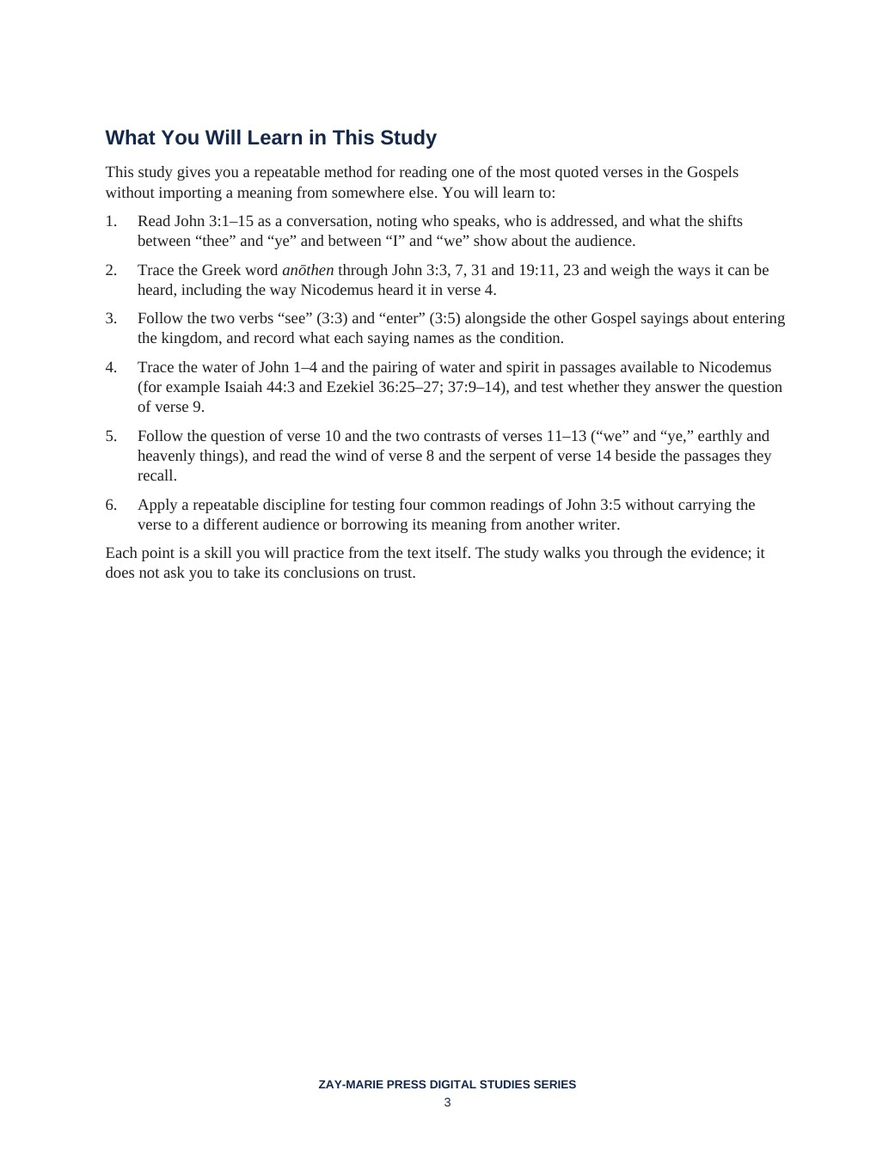
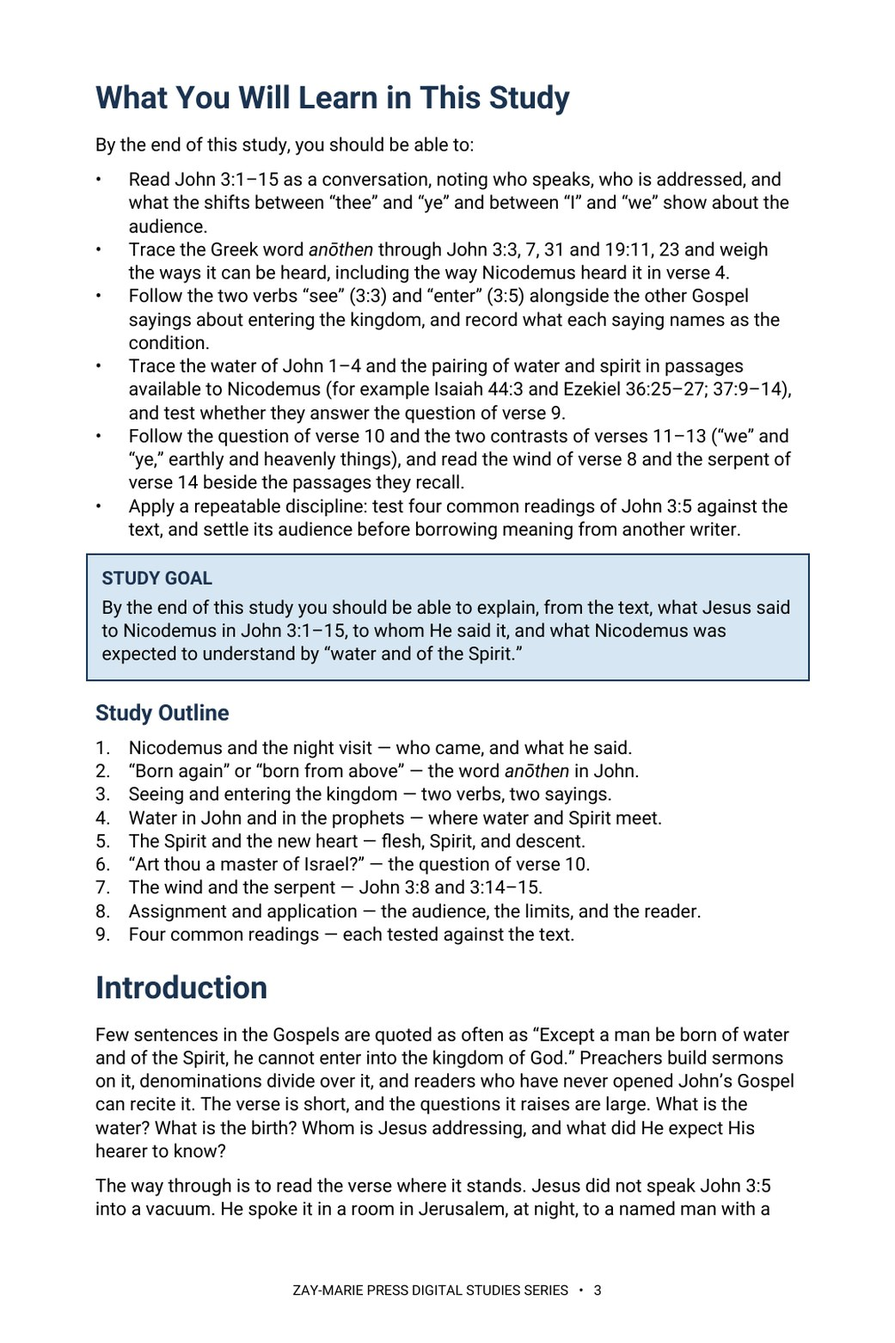
Study 70: rebuilt in Roboto at 10 pt, 17 pages; previews and trackers updated
Claude-Session: https://claude.ai/code/session_01HC7bs9KYP2scp4hCL6DkTp

Changed region(s): [[0.0922, 0.0624, 0.9222, 0.9666]]

diff --git a/study-70-born-of-water-and-of-the-spirit.html b/study-70-born-of-water-and-of-the-spirit.html
@@ -1,13 +1,13 @@
 <!doctype html>
-<html lang="en"><head><meta charset="utf-8"><meta name="viewport" content="width=device-width,initial-scale=1"><title>Born of Water and of the Spirit | Zay-Marie Press</title><meta name="description" content="Study 70 reads John 3:1–15 in its setting, tracing what Jesus said to Nicodemus about being born of water and of the Spirit by its words, its audience, and its Old Testament roots. Preview the 16-page digital study."><link rel="stylesheet" href="styles.css?v=20260921-4"><link rel="icon" type="image/png" href="assets/zay-marie-press-favicon.png"><style>
+<html lang="en"><head><meta charset="utf-8"><meta name="viewport" content="width=device-width,initial-scale=1"><title>Born of Water and of the Spirit | Zay-Marie Press</title><meta name="description" content="Study 70 reads John 3:1–15 in its setting, tracing what Jesus said to Nicodemus about being born of water and of the Spirit by its words, its audience, and its Old Testament roots. Preview the 17-page digital study."><link rel="stylesheet" href="styles.css?v=20260921-4"><link rel="icon" type="image/png" href="assets/zay-marie-press-favicon.png"><style>
 .study-detail-page{background:#fff;color:#252525}.detail-hero{background:linear-gradient(135deg,#f8f5ec,#e3ece2);padding:58px 0}.detail-hero-grid{display:grid;grid-template-columns:minmax(250px,.72fr) minmax(0,1.28fr);gap:58px;align-items:center}.detail-cover{max-width:390px;margin:auto}.detail-cover img{display:block;width:100%;height:auto;box-shadow:0 14px 36px rgba(8,45,69,.18)}.detail-hero h1{font-size:clamp(2.7rem,5vw,4.7rem);line-height:1.02;margin:8px 0 10px;color:#143823}.detail-subtitle{font-family:Georgia,serif;font-size:1.35rem;font-weight:700;color:#082d45;margin:0 0 7px}.detail-kicker{font-family:Georgia,serif;font-style:italic;font-size:1.05rem;color:#4a4a44;margin:0 0 22px}.detail-copy{font-size:1.08rem;line-height:1.65;max-width:760px}.detail-buyline{display:flex;align-items:center;gap:18px;flex-wrap:wrap;margin-top:25px}.detail-price{font-family:Georgia,serif;font-size:2rem;font-weight:700;color:#143823}.detail-format,.preview-card .page-no{font-family:Arial,sans-serif;font-size:.76rem;font-weight:700;letter-spacing:.1em;text-transform:uppercase;color:#176b3a}.detail-button{display:inline-block;background:#176b3a;color:#fff;padding:13px 22px;font-family:Arial,sans-serif;font-size:.8rem;font-weight:700;letter-spacing:.07em;text-transform:uppercase}.detail-button.pending{opacity:.72;cursor:default}.detail-section{padding:66px 0}.detail-section.soft{background:#f6f7f2}.detail-section.cream{background:#faf8f2}.detail-section h2{color:#143823;margin:6px 0 18px;font-size:clamp(2rem,3.4vw,3rem)}.detail-section .lead{max-width:920px;font-size:1.1rem;line-height:1.62}.study-distinction{max-width:920px;margin-top:28px;margin-bottom:28px;padding:26px 28px;background:#fff;border:1px solid #d8d1bf;border-left:4px solid #b8871c}.study-distinction h3{margin:0 0 10px;color:#143823}.study-distinction p{margin:0 0 14px;line-height:1.62}.study-distinction a{font-family:Arial,sans-serif;font-weight:700;color:#176b3a;text-decoration:none}.study-points{display:grid;grid-template-columns:repeat(3,1fr);gap:18px;margin-top:28px;margin-bottom:28px}.study-point,.scripture-card,.preview-card,.include-item{background:#fff;border:1px solid var(--line);text-align:left}.study-point{border-top:3px solid #176b3a;padding:22px}.study-point h3{color:#143823;margin:0 0 8px;font-size:1.2rem}.study-point p,.scripture-card p,.preview-card p,.include-item p{margin:0;line-height:1.55}.scripture-grid{display:grid;grid-template-columns:repeat(4,1fr);gap:14px;margin-top:24px;margin-bottom:24px}.scripture-card{padding:22px 20px;color:#143823}.scripture-card h3{margin:0 0 9px;font-family:Georgia,serif;font-size:1rem;line-height:1.35}.scripture-card p{font-size:.94rem;color:#45453f}.excerpt{max-width:900px;margin:28px auto;border-left:4px solid #b8871c;padding:10px 0 10px 28px}.excerpt blockquote{font-family:Georgia,serif;font-size:clamp(1.45rem,2.5vw,2rem);line-height:1.45;color:#143823;margin:0 0 16px}.excerpt p{line-height:1.6;margin:0}.preview-grid{display:grid;grid-template-columns:repeat(2,1fr);gap:20px;margin-top:28px;margin-bottom:28px}.preview-card{padding:18px;min-height:210px;box-shadow:0 7px 20px rgba(20,40,25,.05)}.preview-image-link{display:block;margin:0 0 18px}.preview-image-link img{display:block;width:100%;height:auto;border:1px solid #d8d1bf;box-shadow:0 8px 22px rgba(20,40,25,.1);transition:transform .18s ease,box-shadow .18s ease}.preview-image-link:hover img{transform:translateY(-2px);box-shadow:0 11px 28px rgba(20,40,25,.16)}.preview-card h3{color:#143823;margin:8px 0 10px}.preview-instruction{margin:10px 0 0;font-family:Arial,sans-serif;font-size:.78rem;letter-spacing:.04em;color:#5b5b55}.includes-grid{display:grid;grid-template-columns:repeat(4,1fr);gap:14px;margin-top:26px}.include-item{padding:22px 20px;color:#143823}.include-item h3{margin:0 0 9px;font-family:Arial,sans-serif;font-size:.86rem;line-height:1.35;letter-spacing:.02em}.include-item p{font-size:.94rem;color:#45453f}.final-buy{background:#082d45;color:#fff;border-top:4px solid #b8871c;padding:42px 48px;display:grid;grid-template-columns:1fr auto;gap:36px;align-items:center}.final-buy .eyebrow,.final-buy h2,.final-buy .detail-price{color:#fff}.final-buy h2{margin:7px 0 6px}.final-buy p{margin:0}.final-offer{text-align:center}.back-link{display:inline-block;margin-top:18px;color:#143823;font-family:Arial,sans-serif;font-weight:700;text-decoration:none}.preview-lightbox{position:fixed;inset:0;z-index:10000;display:none;align-items:flex-start;justify-content:center;background:rgba(8,22,16,.88);padding:24px;overflow:auto}.preview-lightbox.open{display:flex}.preview-lightbox img{display:block;width:auto;height:auto;max-width:none;box-shadow:0 18px 55px rgba(0,0,0,.4);background:#fff}.preview-lightbox-close{position:fixed;top:18px;right:24px;z-index:10001;width:46px;height:46px;border:1px solid rgba(255,255,255,.65);border-radius:50%;background:rgba(0,0,0,.55);color:#fff;font:32px/1 Arial,sans-serif;cursor:pointer}@media(max-width:900px){.detail-hero-grid{grid-template-columns:1fr;gap:34px}.detail-cover{max-width:330px}.study-points{grid-template-columns:repeat(2,1fr)}.scripture-grid,.includes-grid{grid-template-columns:repeat(2,1fr)}.preview-grid,.final-buy{grid-template-columns:1fr}.final-offer{text-align:left}}@media(max-width:560px){.detail-hero{padding:42px 0}.detail-section{padding:50px 0}.study-points,.scripture-grid,.includes-grid{grid-template-columns:1fr}.final-buy{padding:32px 24px}.detail-buyline{align-items:flex-start;flex-direction:column;gap:8px}.preview-lightbox{padding:58px 10px 24px}.preview-lightbox img{width:100%;max-width:100%;height:auto}} .detail-hero h1{font-size:clamp(2.1rem,4.2vw,3.7rem);line-height:1.08}</style></head><body class="study-detail-page">
-<header class="site-header"><div class="wrap nav"><a class="logo" href="index.html" aria-label="Zay-Marie Press home"><img src="assets/zay-marie-press-logo-hq.png" alt="Zay-Marie Press" width="420" height="238"></a><button class="menu-toggle" type="button" aria-expanded="false" aria-controls="primary-nav">MENU</button><nav aria-label="Primary navigation" class="primary-nav" id="primary-nav"><a href="index.html">HOME</a><a href="books.html">BOOKS</a><a href="series.html">SERIES</a><a class="active" aria-current="page" href="digital-studies.html">DIGITAL STUDIES</a><a href="biblical-hermeneutics-course.html">COURSE</a><a href="about.html">ABOUT</a><a href="resources.html">RESOURCES</a><a href="contact.html">CONTACT</a></nav></div></header><main><section class="detail-hero"><div class="wrap detail-hero-grid"><div class="detail-cover"><picture><source srcset="assets/study-70-cover.webp" type="image/webp"><img src="assets/study-70-cover.jpg" alt="Born of Water and of the Spirit cover"></picture></div><div><div class="eyebrow">STUDY 70 · DIGITAL STUDY</div><h1>Born of Water and of the Spirit</h1><p class="detail-subtitle">John 3:5 in Its Setting</p><p class="detail-kicker">What did Jesus mean Nicodemus to understand by “born of water and of the Spirit”?</p><p class="detail-copy">Few sentences in the Gospels are quoted as often as John 3:5, and few are so often read apart from the room in which they were spoken. Jesus said it at night, in Jerusalem, to a named man with a title, in answer to a specific statement, and He said within the same conversation that the man ought to have known “these things.”</p><p class="detail-copy">This study reads John 3:1–15 as a conversation: who speaks, who is addressed, what the words are, and where else those words and images appear in the Scriptures Nicodemus knew. It holds to one order throughout: meaning first, assignment second, application third.</p><div class="detail-buyline"><span class="detail-price">$5.99</span><span class="detail-format">Digital PDF · 16 Pages</span><span class="detail-button pending" aria-disabled="true">Checkout Coming Soon</span></div></div></div></section>
+<header class="site-header"><div class="wrap nav"><a class="logo" href="index.html" aria-label="Zay-Marie Press home"><img src="assets/zay-marie-press-logo-hq.png" alt="Zay-Marie Press" width="420" height="238"></a><button class="menu-toggle" type="button" aria-expanded="false" aria-controls="primary-nav">MENU</button><nav aria-label="Primary navigation" class="primary-nav" id="primary-nav"><a href="index.html">HOME</a><a href="books.html">BOOKS</a><a href="series.html">SERIES</a><a class="active" aria-current="page" href="digital-studies.html">DIGITAL STUDIES</a><a href="biblical-hermeneutics-course.html">COURSE</a><a href="about.html">ABOUT</a><a href="resources.html">RESOURCES</a><a href="contact.html">CONTACT</a></nav></div></header><main><section class="detail-hero"><div class="wrap detail-hero-grid"><div class="detail-cover"><picture><source srcset="assets/study-70-cover.webp" type="image/webp"><img src="assets/study-70-cover.jpg" alt="Born of Water and of the Spirit cover"></picture></div><div><div class="eyebrow">STUDY 70 · DIGITAL STUDY</div><h1>Born of Water and of the Spirit</h1><p class="detail-subtitle">John 3:5 in Its Setting</p><p class="detail-kicker">What did Jesus mean Nicodemus to understand by “born of water and of the Spirit”?</p><p class="detail-copy">Few sentences in the Gospels are quoted as often as John 3:5, and few are so often read apart from the room in which they were spoken. Jesus said it at night, in Jerusalem, to a named man with a title, in answer to a specific statement, and He said within the same conversation that the man ought to have known “these things.”</p><p class="detail-copy">This study reads John 3:1–15 as a conversation: who speaks, who is addressed, what the words are, and where else those words and images appear in the Scriptures Nicodemus knew. It holds to one order throughout: meaning first, assignment second, application third.</p><div class="detail-buyline"><span class="detail-price">$5.99</span><span class="detail-format">Digital PDF · 17 Pages</span><span class="detail-button pending" aria-disabled="true">Checkout Coming Soon</span></div></div></div></section>
 <section class="detail-section"><div class="wrap"><div class="eyebrow">ABOUT THIS STUDY</div><h2>Read the Verse Where It Was Spoken</h2><p class="lead">You will meet Nicodemus and the details John records about him, weigh the Greek word behind “born again,” follow the two verbs “see” and “enter,” and trace the water of John 1–4 and the pairing of water and spirit in the Scriptures available to Nicodemus. You will read the question of verse 10, the wind of verse 8, and the serpent of verse 14 beside the passages they recall, and only then draw the assignment and application.</p><p class="lead">Readers who already own Study 42 (One Baptism), Study 20 (Understanding Acts 2:38), Study 37 (What Does Paul Mean by “New Creation”?), or Study 41 (Kingdom of God or Kingdom of Heaven?) will recognize adjoining ground. Study 42 classifies the baptisms recorded in Acts and follows Paul to the one baptism of the Body; this study does not classify baptisms and stays in John 3. Study 20 reads Peter’s appeal at Pentecost; John 3 was spoken before the cross and before that day. Study 37 follows a Pauline phrase; this study stays with the words Jesus spoke to Nicodemus. Study 41 compares the two kingdom phrases across the Gospels; this study asks only what “see” and “enter” mean in John 3:3, 5. The question this study alone answers: what did Jesus mean Nicodemus to understand by “born of water and of the Spirit”?</p>
 <div class="study-distinction"><h3>How These Studies Relate</h3><p>Study 70 reads one conversation in John 3. The studies below supply the neighboring ground it deliberately does not repeat.</p><p><a href="study-42-one-baptism.html">Study 42 — One Baptism</a> Classify every baptism in Acts and follow Paul to the one baptism of the Body; Study 70 stays in John 3 and classifies no baptisms.</p><p><a href="study-20-understanding-acts-2-38.html">Study 20 — Understanding Acts 2:38</a> Read Peter’s Pentecost appeal in its setting; Study 70 reads a conversation spoken before the cross.</p><p><a href="study-41-kingdom-of-god-or-kingdom-of-heaven.html">Study 41 — Kingdom of God or Kingdom of Heaven?</a> Compare the two kingdom phrases across the Gospels; Study 70 asks only what “see” and “enter” mean in John 3:3, 5.</p><p class="connection-guide-link"><a href="study-connections.html#study-70">Explore the full connection guide for Study 70 →</a></p></div>
 <div class="eyebrow">WHAT YOU’LL STUDY</div><h2>Trace the Passage Before You Conclude</h2><div class="study-points"><div class="study-point"><h3>The Conversation and Its Speakers</h3><p>Read John 3:1–15 as a conversation, noting who speaks, who is addressed, and what the shifts between “thee” and “ye” and between “I” and “we” show about the audience.</p></div><div class="study-point"><h3>The Word Behind “Born Again”</h3><p>Trace the Greek word <em>anōthen</em> through John 3:3, 7, 31 and 19:11, 23 and weigh the ways it can be heard, including the way Nicodemus heard it in verse 4.</p></div><div class="study-point"><h3>Seeing and Entering</h3><p>Follow the two verbs “see” (3:3) and “enter” (3:5) alongside the other Gospel sayings about entering the kingdom, and record what each saying names as the condition.</p></div><div class="study-point"><h3>Water and Spirit in the Scriptures</h3><p>Trace the water of John 1–4 and the pairing of water and spirit in passages available to Nicodemus (for example Isaiah 44:3 and Ezekiel 36:25–27; 37:9–14), and test whether they answer the question of verse 9.</p></div><div class="study-point"><h3>The Question, the Wind, and the Serpent</h3><p>Follow the question of verse 10 and the two contrasts of verses 11–13 (“we” and “ye,” earthly and heavenly things), and read the wind of verse 8 and the serpent of verse 14 beside the passages they recall.</p></div><div class="study-point"><h3>Testing Four Readings</h3><p>Apply a repeatable discipline for testing four common readings of John 3:5 without carrying the verse to a different audience or borrowing its meaning from another writer.</p></div></div>
 <div class="eyebrow">KEY SCRIPTURES</div><h2>Read the Word in Its Context</h2><div class="scripture-grid"><div class="scripture-card"><h3>John 3:1–15</h3><p>The conversation between Jesus and Nicodemus, from the night visit to the serpent.</p></div><div class="scripture-card"><h3>John 1:12–13</h3><p>Those born, not of blood or the will of man, but of God.</p></div><div class="scripture-card"><h3>John 1:26–33</h3><p>John baptizes with water, and Christ with the Holy Ghost.</p></div><div class="scripture-card"><h3>Isaiah 44:1–5</h3><p>Water poured on the thirsty and the Spirit poured on Israel’s seed.</p></div><div class="scripture-card"><h3>Ezekiel 36:22–28</h3><p>Clean water sprinkled, a new heart and a new spirit given.</p></div><div class="scripture-card"><h3>Ezekiel 37:9–14</h3><p>Breath from the four winds, and the Spirit put within.</p></div><div class="scripture-card"><h3>Numbers 21:4–9</h3><p>The bitten people who looked at the brass serpent and lived.</p></div><div class="scripture-card"><h3>John 7:37–39</h3><p>The rivers of living water and the Spirit not yet given.</p></div></div>
 <div class="eyebrow">FROM THE STUDY</div><h2>A Person and a Group</h2><div class="excerpt"><blockquote>Jesus speaks to Nicodemus by name and to the company he represents.</blockquote><p>The passage is a private conversation with a public reach, and the audience it names is not left to be assumed.</p></div>
-<div class="eyebrow">A LOOK INSIDE</div><h2>Preview the Study Before You Purchase</h2><p class="preview-instruction">Click any page to enlarge it for reading.</p><div class="preview-grid"><div class="preview-card"><a class="preview-image-link" data-preview-lightbox href="assets/study-70-page-2.jpg"><img src="assets/study-70-page-2.jpg" alt="Study 70 table of contents"></a><div class="page-no">Interior Page 2</div><h3>Table of Contents</h3><p>See the full structure and the passages examined.</p></div><div class="preview-card"><a class="preview-image-link" data-preview-lightbox href="assets/study-70-page-3.jpg"><img src="assets/study-70-page-3.jpg" alt="Study 70 learning outcomes"></a><div class="page-no">Interior Page 3</div><h3>What You Will Learn</h3><p>See the study’s scope and reading procedure.</p></div><div class="preview-card"><a class="preview-image-link" data-preview-lightbox href="assets/study-70-page-5.jpg"><img src="assets/study-70-page-5.jpg" alt="Study 70 Nicodemus and the night visit"></a><div class="page-no">Interior Page 5</div><h3>Nicodemus and the Night Visit</h3><p>Meet the visitor and read the details John records before Jesus answers.</p></div></div>
-<div class="eyebrow">WHAT’S INCLUDED</div><h2>A Focused Study of John 3:5</h2><div class="includes-grid"><div class="include-item"><h3>16-Page Digital PDF</h3><p>Approved cover and 15-page numbered interior.</p></div><div class="include-item"><h3>9 Teaching Sections</h3><p>A text-driven study from the night visit to careful application.</p></div><div class="include-item"><h3>Callout Boxes</h3><p>Five callout boxes marking the study’s key working rules.</p></div><div class="include-item"><h3>Comparison Tables</h3><p>Five tables: the entering sayings, the water in John 1–4, the water and Spirit in the prophets, the markers of assignment, and four common readings.</p></div><div class="include-item"><h3>Scripture-Tracing Exercise</h3><p>Six guided traces through the passages the study relies on.</p></div><div class="include-item"><h3>Guided Further Study</h3><p>Five passage groups for deeper reading.</p></div><div class="include-item"><h3>Review Questions</h3><p>Eleven questions testing the study’s markers and method.</p></div><div class="include-item"><h3>Final Synthesis Exercise</h3><p>A written synthesis drawing the whole study together.</p></div></div>
-<div class="final-buy"><div><div class="eyebrow">STUDY 70 · DIGITAL STUDY</div><h2>Born of Water and of the Spirit</h2><p>16-page digital PDF · For personal use</p></div><div class="final-offer"><div class="detail-price">$5.99</div><span class="detail-button pending" aria-disabled="true">Checkout Coming Soon</span></div></div><a class="back-link" href="digital-studies.html">← Back to All Digital Studies</a></div></section>
+<div class="eyebrow">A LOOK INSIDE</div><h2>Preview the Study Before You Purchase</h2><p class="preview-instruction">Click any page to enlarge it for reading.</p><div class="preview-grid"><div class="preview-card"><a class="preview-image-link" data-preview-lightbox href="assets/study-70-page-2.jpg"><img src="assets/study-70-page-2.jpg" alt="Study 70 table of contents"></a><div class="page-no">Interior Page 2</div><h3>Table of Contents</h3><p>See the full structure and the passages examined.</p></div><div class="preview-card"><a class="preview-image-link" data-preview-lightbox href="assets/study-70-page-3.jpg"><img src="assets/study-70-page-3.jpg" alt="Study 70 learning outcomes"></a><div class="page-no">Interior Page 3</div><h3>What You Will Learn</h3><p>See the study’s scope and reading procedure.</p></div><div class="preview-card"><a class="preview-image-link" data-preview-lightbox href="assets/study-70-page-5.jpg"><img src="assets/study-70-page-5.jpg" alt="Study 70 the word anōthen in John 3"></a><div class="page-no">Interior Page 5</div><h3>“Born Again” or “Born from Above”</h3><p>Follow one Greek word through John’s Gospel before deciding what it asks of the reader.</p></div></div>
+<div class="eyebrow">WHAT’S INCLUDED</div><h2>A Focused Study of John 3:5</h2><div class="includes-grid"><div class="include-item"><h3>17-Page Digital PDF</h3><p>Approved cover and 16-page numbered interior.</p></div><div class="include-item"><h3>9 Teaching Sections</h3><p>A text-driven study from the night visit to careful application.</p></div><div class="include-item"><h3>Callout Boxes</h3><p>Five callout boxes marking the study’s key working rules.</p></div><div class="include-item"><h3>Comparison Tables</h3><p>Five tables: the entering sayings, the water in John 1–4, the water and Spirit in the prophets, the markers of assignment, and four common readings.</p></div><div class="include-item"><h3>Scripture-Tracing Exercise</h3><p>Six guided traces through the passages the study relies on.</p></div><div class="include-item"><h3>Guided Further Study</h3><p>Five passage groups for deeper reading.</p></div><div class="include-item"><h3>Review Questions</h3><p>Eleven questions testing the study’s markers and method.</p></div><div class="include-item"><h3>Final Synthesis Exercise</h3><p>A written synthesis drawing the whole study together.</p></div></div>
+<div class="final-buy"><div><div class="eyebrow">STUDY 70 · DIGITAL STUDY</div><h2>Born of Water and of the Spirit</h2><p>17-page digital PDF · For personal use</p></div><div class="final-offer"><div class="detail-price">$5.99</div><span class="detail-button pending" aria-disabled="true">Checkout Coming Soon</span></div></div><a class="back-link" href="digital-studies.html">← Back to All Digital Studies</a></div></section>
 </main><div class="preview-lightbox" id="preview-lightbox" role="dialog" aria-modal="true" aria-label="Expanded study preview"><button class="preview-lightbox-close" type="button" aria-label="Close preview">×</button><img id="preview-lightbox-image" alt=""></div><footer class="site-footer"><div class="wrap footer-grid"><div class="footer-about"><h3>Zay-Marie Press</h3><p class="footer-tagline"><em>Where the Bible Means What It Says.</em></p><p>Zay-Marie Press is a Christian theological publisher dedicated to producing doctrinally precise, carefully structured biblical resources that equip pastors, teachers, and serious students with clarity, depth, and Scripture-anchored truth.</p><p><a href="https://zaymariepress.com">zaymariepress.com</a><br><a href="mailto:info@zaymariepress.com">info@zaymariepress.com</a></p></div><div class="footer-column"><h3>Explore</h3><div class="footer-links-stacked"><a href="books.html">Books</a><br><a href="series.html">Series</a><br><a href="biblical-hermeneutics-course.html">Course</a><br><a href="digital-studies.html">Digital Studies</a><br><a href="resources.html">Resources</a><br><a href="bible-book-summaries.html">Bible Book Summaries</a><br><a href="doctrinal-packets.html">Doctrinal Packets</a><br><a href="historical-drift.html">Historical Drift</a><br><a href="about.html">About</a><br><a href="contact.html">Contact</a></div></div><div class="footer-column"><h3>Reader Support</h3><div class="footer-links-stacked"><a href="reader-support.html#faq">FAQ</a><br><a href="reader-support.html#shipping-returns">Shipping &amp; Returns</a><br><a href="reader-support.html#digital-downloads">Digital Downloads</a><br><a href="reader-support.html#contact-support">Contact Support</a></div></div><div class="footer-column"><h3>Acts Overlap</h3><p><strong>Acts Overlap Theology Series</strong></p><p><em>Two Distinct Streams. One Overlap.</em></p><p><a href="series.html">Series Overview</a></p></div></div><div class="wrap footer-bottom">© 2026 Zay-Marie Press. All rights reserved.</div></footer><script src="site.js"></script><script>const lightbox=document.getElementById('preview-lightbox'),lightboxImage=document.getElementById('preview-lightbox-image'),closeLightbox=()=>{lightbox.classList.remove('open');lightboxImage.src='';};document.querySelectorAll('[data-preview-lightbox]').forEach(link=>link.addEventListener('click',event=>{event.preventDefault();lightboxImage.src=link.href;lightboxImage.alt=link.querySelector('img').alt;lightbox.classList.add('open');}));document.querySelector('.preview-lightbox-close').addEventListener('click',closeLightbox);lightbox.addEventListener('click',event=>{if(event.target===lightbox)closeLightbox();});document.addEventListener('keydown',event=>{if(event.key==='Escape')closeLightbox();});</script></body></html>

diff --git a/site.js b/site.js
@@ -62,7 +62,7 @@ const resourceModal=document.querySelector('#resource-modal'), resourceModalTitl
 if(resourceModal&&resourceModalTriggers.length){const closeResourceModal=()=>{resourceModal.hidden=true;document.body.classList.remove('resource-modal-open');lastResourceTrigger?.focus();};resourceModalTriggers.forEach(trigger=>trigger.addEventListener('click',()=>{lastResourceTrigger=trigger;if(resourceModalTitle)resourceModalTitle.textContent=trigger.dataset.title||'Resource';if(resourceModalDescription)resourceModalDescription.textContent=trigger.dataset.description||'';if(resourceModalLink){resourceModalLink.href=trigger.dataset.href||'#';resourceModalLink.textContent=trigger.dataset.linkText||'OPEN RESOURCE';}resourceModal.hidden=false;document.body.classList.add('resource-modal-open');resourceModalClose?.focus();}));resourceModalClose?.addEventListener('click',closeResourceModal);resourceModal.addEventListener('click',e=>{if(e.target===resourceModal)closeResourceModal();});document.addEventListener('keydown',e=>{if(e.key==='Escape'&&!resourceModal.hidden)closeResourceModal();});}
 
 /* Display the verified final-PDF page count at the primary purchase decision point. */
-const digitalStudyPageCounts={1:17,2:19,3:16,4:18,5:16,6:16,7:14,8:13,9:16,10:20,11:15,12:15,13:19,14:15,15:15,16:16,17:18,18:18,19:16,20:16,21:17,22:16,23:14,24:16,25:17,26:16,27:16,28:16,29:19,30:17,31:18,32:19,33:18,34:16,35:16,36:16,37:16,38:16,39:16,40:16,41:16,42:17,43:17,44:19,45:19,46:20,47:19,48:18,49:20,50:19,51:20,52:19,53:19,54:17,55:20,56:20,57:20,58:19,59:20,60:15,61:16,62:18,63:17,64:17,65:16,66:16,67:17,68:16,69:17,70:16,71:16};
+const digitalStudyPageCounts={1:17,2:19,3:16,4:18,5:16,6:16,7:14,8:13,9:16,10:20,11:15,12:15,13:19,14:15,15:15,16:16,17:18,18:18,19:16,20:16,21:17,22:16,23:14,24:16,25:17,26:16,27:16,28:16,29:19,30:17,31:18,32:19,33:18,34:16,35:16,36:16,37:16,38:16,39:16,40:16,41:16,42:17,43:17,44:19,45:19,46:20,47:19,48:18,49:20,50:19,51:20,52:19,53:19,54:17,55:20,56:20,57:20,58:19,59:20,60:15,61:16,62:18,63:17,64:17,65:16,66:16,67:17,68:16,69:17,70:17,71:16};
 const digitalStudyMatch=window.location.pathname.match(/\/study-(\d+)-/i);
 const digitalStudyFormat=document.querySelector('.detail-hero .detail-format');
 if(digitalStudyMatch&&digitalStudyFormat){const studyNumber=Number(digitalStudyMatch[1]),pageCount=digitalStudyPageCounts[studyNumber];if(pageCount)digitalStudyFormat.textContent=`Digital PDF · ${pageCount} Pages`;}

diff --git a/CLAUDE.md b/CLAUDE.md
@@ -23,7 +23,7 @@ These are kept in the repo at `controlling-documents/` and are the current versi
 - As of v1.50 (publisher directive, 2026-10-03), the **What You Will Learn in This Study** section is always bulleted, never set as running paragraphs, written into this file in the same pass (Master Standard Section 3 item 4, Section 6 structure line, Section 22): a list of bullet points, each describing one process, textual marker or interpretive discipline the reader will practice (Section 17 still governs what they may say); at most one short lead-in line may stand above the bullets (for example, “By the end of this study, you should be able to:”); the Study Goal callout and the Study Outline keep their own forms. It governs every new study and every study rebuilt or retrofitted from now on; earlier studies take it when reopened or when the publisher directs. In every study check (Step 1), report whether the section is bulleted. First applied to Study 43.
 **`controlling-documents/Digital_Studies_Relationship_Map_v1.39.md`** — records each study's distinct subject, its related studies, the eight priced six-study collections, the Paul's Missionary Journeys cross-reference map, and the five primary catalog categories (currently version 1.39, covers Studies 1–71; update it as new studies publish, bump the version number, rename the file to match, and log the change in its own version-history table — mirroring the Master Standard's `_vX.Y` filename convention). Check a proposed topic against it before recommending or writing a new study. (2026-09-28: the file was missing from this repo despite this note referencing it; replaced from the publisher's copy and bumped v1.15→v1.25 in the same pass. If this note ever again points to a version not present under `controlling-documents/`, ask the publisher for a copy rather than proceeding without the check.)
 - **`controlling-documents/Digital_Studies_Category_Standard_v1.1.md`** — FINAL and binding (publisher, 2026-10-01): the rules for the five primary catalog categories (Foundations, Israel & Prophecy, Body of Christ, Passages, Doctrinal Themes), the ordered decision procedure for new studies, the precedents, all 71 fixed assignments, and the cover-label form for each category. Read it before placing any card or cover label. Do not ask the publisher where a study belongs; apply the procedure and state the result. Only the publisher changes a ruling; then bump this Standard's version and filename, re-letter the cover, and update the Relationship Map.
-- **`controlling-documents/Doctrinal_Upgrade_Retrofit_Plan_v1.92.md`** — working tracker for retrofitting Studies 1–59 to the 2026-10-02 doctrinal upgrade (Framework/PAM v1.1, Master Standard v1.40, Rules 7–17): withdrawn-wording search keys, impact tiers, waves and the per-study method. Read it before continuing the retrofit in any session; update status, bump the version and rename the file as work proceeds.
+- **`controlling-documents/Doctrinal_Upgrade_Retrofit_Plan_v1.93.md`** — working tracker for retrofitting Studies 1–59 to the 2026-10-02 doctrinal upgrade (Framework/PAM v1.1, Master Standard v1.40, Rules 7–17): withdrawn-wording search keys, impact tiers, waves and the per-study method. Read it before continuing the retrofit in any session; update status, bump the version and rename the file as work proceeds.
 - **`controlling-documents/Doctrinal_Packet_Standard_v0.3.md`** — Doctrinal Packet Standard (DRAFT; §7 approved). Governs the separate Doctrinal Packets product strand (5-page interpretive PDFs per Bible book — a print-friendly cover as page 1 plus 4 content pages, $2.99, KJV, pilot: Genesis, live at `packet-genesis.html`, hub `doctrinal-packets.html`; site pages say "5 Pages", cover styles live in `packets.css`, Old Testament blue and New Testament soft pale green, hub listed in Bible order). **Preview rule (publisher directive, 2026-09-29, packets only):** previews show about one page's worth in two cropped views (top of page 1 through the anchor texts; the chart section) — never the exegesis, architecture, Mystery contrast, logic chain, outline, or closing. Master Standard §16/§17 still govern Digital Studies. Bump the version and rename the file as the Standard is finalized.
 - **`controlling-documents/Preview_Page_Spoiler_Retrofit_Audit_v1.4.md`** — working tracker for the Studies 1–60 preview-page conclusion-spoiler retrofit (see the section below). Read it before continuing that audit in any session; update its status fields and changelog, bump the version, and rename the file to match as the audit proceeds — same `_vX.Y` convention as the other controlling documents. As of v1.1, the website-side half was DONE: all 60 studies' "What You'll Study" text was judged against the rule (methodology documented in the file) and 22 points across 11 studies were rewritten and pushed; an unrelated Study 22 content bug (Study 21's content had leaked into it) was also found and fixed. As of v1.2, the publisher supplied Studies 1–60's interior production PDFs and the interior-PDF half was also surveyed (read-only): 10 studies (37, 41, 45, 47, 48, 49, 51, 52, 53, 54) were found to have at least one interior "What You Will Learn" violation, 50 studies were confirmed compliant, and the orphaned `assets/study-45-sanctification-under-grace.docx` (removed from the repo per the publisher in v1.0) was confirmed word-for-word identical to Study 45's actual production interior PDF content. As of v1.3, the publisher supplied editable DOCX sources for all 10 violating studies; all 15 violating points were rewritten and approved, delivered as corrected final PDFs, and — along the way — a second defect was found and fixed (Studies 47 and 48's source DOCX still had an unintegrated cover placeholder despite both being long-published live with real covers; fixed by inserting the existing approved cover art). The website's "What You Will Learn" preview image (`study-NN-page-3.jpg`) was regenerated from the corrected content for all 10 studies and pushed to `main` (commit `cea1859`), verified against a fresh clone. **The website side of this audit is now fully compliant for all 60 studies.** Outstanding: the publisher's purchasable interior PDF files themselves have corrected versions delivered, but distribution to existing purchasers was decided by the publisher on 2026-09-29: silent swap of the files behind the existing downloads, no reissue notice (recorded in the v1.4 changelog entry; the product files are not in this repo).
 

diff --git a/controlling-documents/Doctrinal_Upgrade_Retrofit_Plan_v1.93.md b/controlling-documents/Doctrinal_Upgrade_Retrofit_Plan_v1.93.md
@@ -185,3 +185,4 @@ Working tracker for correcting published studies to the Framework/PAM v1.1, Mast
 - v1.90 (2026-10-03): Study 67 rebuilt in Roboto at 10 pt on the current page from the publisher's PDF (no DOCX or approved FINAL supplied; text taken from the PDF word for word), 17 pages (cover plus 16; was 16). Changes: What You Will Learn set as bullets under one lead-in (closing paragraph removed; bullet 7 reworded to a process line); nine callouts reduced to five (Setting Before Title, Two Titles One Office, Stated Not Supplied and The Readers First became run-in paragraphs, wording unchanged); Teaching Outline numerals changed to 1–8; two split tables merged; reader-facing wording: "This fits the framework of this series" replaced by the Hebrews reader-facing sentence (letter's audience markers and the Jeremiah 31:31–34 covenant), "belongs with the first" changed to "is read here within the first" (interpretive reading, not a book-level assignment), "controlling framework" replaced. No withdrawn doctrinal wording found. pdffonts confirms Roboto only. Previews 2, 3 and 5 re-rendered; site.js and page text updated.
 - v1.91 (2026-10-03): Study 68 rebuilt in Roboto at 10 pt on the current page from the publisher's PDF (no DOCX or approved FINAL supplied; text taken from the PDF word for word), 16 pages (cover plus 15; unchanged). Changes: What You Will Learn set as bullets under one lead-in (closing paragraph removed; bullet 7 reworded to a process line); nine callouts reduced to five (Registers Before the Book, The Verb and Its Speakers, Found Written and The Lamb's Book became run-in paragraphs, wording unchanged); Teaching Outline numerals changed to 1–8; split section 6 table merged; standing wording applied: the reader-facing book sentence added after Hebrews 12:23 (4.3) and Philippians 4:3 (8.2), and "The Body of Christ does not appear in Revelation's prophetic scenes." added to 7.3; "controlling framework" replaced. No withdrawn doctrinal wording found. pdffonts confirms Roboto only. Previews 2, 3 and 5 re-rendered.
 - v1.92 (2026-10-03): Study 69 rebuilt in Roboto at 10 pt on the current page from the publisher's PDF (no DOCX or approved FINAL supplied; text taken from the PDF word for word), 17 pages (cover plus 16; was 16). Changes: What You Will Learn set as bullets under one lead-in (closing paragraph removed; bullet 7 reworded to a process line); nine callouts reduced to five (Stated Before Organized, The City by Its Markers, Where Paul Writes the Hope and Context First became run-in paragraphs, wording unchanged); Teaching Outline numerals changed to 1–8; split Kingdom-passages table merged; orphan imprint fixed with layout-only keep-with-next on the last Final Synthesis lines; reader-facing wording: four "Framework" references (8.1 x2, Conclusion, Study Summary) and "controlling framework" replaced; standing wording applied: "The Body of Christ does not appear in Revelation's prophetic scenes." added in 8.1 and the reader-facing book sentence added after Hebrews 12:22–23 (6.2). No withdrawn doctrinal wording found. pdffonts confirms Roboto only. Previews 2, 3 and 5 re-rendered; site.js and page text updated.
+- v1.93 (2026-10-03): Study 70 rebuilt in Roboto at 10 pt on the current page from the publisher's PDF (no DOCX or approved FINAL supplied; text taken from the PDF word for word), 17 pages (cover plus 16; was 16). Changes: What You Will Learn set as bullets under one lead-in (closing paragraph removed; bullet 7 reworded to a process line); six callouts reduced to five (A Person and a Group became a run-in paragraph, wording unchanged); Teaching Outline numerals changed to 1–8; split water-and-Spirit table merged; orphan imprint fixed with layout-only keep-with-next; reader-facing wording: two "framework of this series" references (8.1, 8.2) and "controlling framework" replaced; standing wording applied: the reader-facing passage sentence added at the end of 8.1 (John 3, no entry of its own). No withdrawn doctrinal wording found. pdffonts confirms Roboto only. Previews 2, 3 and 5 re-rendered; site.js and page text updated. Batch 62–70 complete; Studies 61 and 71 (PDF-only first retrofits) remain.

diff --git a/controlling-documents/Digital_Studies_PAM_Audit_v1.187.md b/controlling-documents/Digital_Studies_PAM_Audit_v1.187.md
@@ -416,3 +416,4 @@ Study 15 PDF not yet supplied. Typography: none of Studies 2, 3, 6, 8 is in EB G
 - v1.184 (2026-10-03): Study 67 rebuilt in Roboto at 10 pt, 17 pages (see Retrofit Plan v1.90).
 - v1.185 (2026-10-03): Study 68 rebuilt in Roboto at 10 pt, 16 pages (see Retrofit Plan v1.91).
 - v1.186 (2026-10-03): Study 69 rebuilt in Roboto at 10 pt, 17 pages; Framework references removed from reader text (see Retrofit Plan v1.92).
+- v1.187 (2026-10-03): Study 70 rebuilt in Roboto at 10 pt, 17 pages; Framework references removed from reader text (see Retrofit Plan v1.93).
